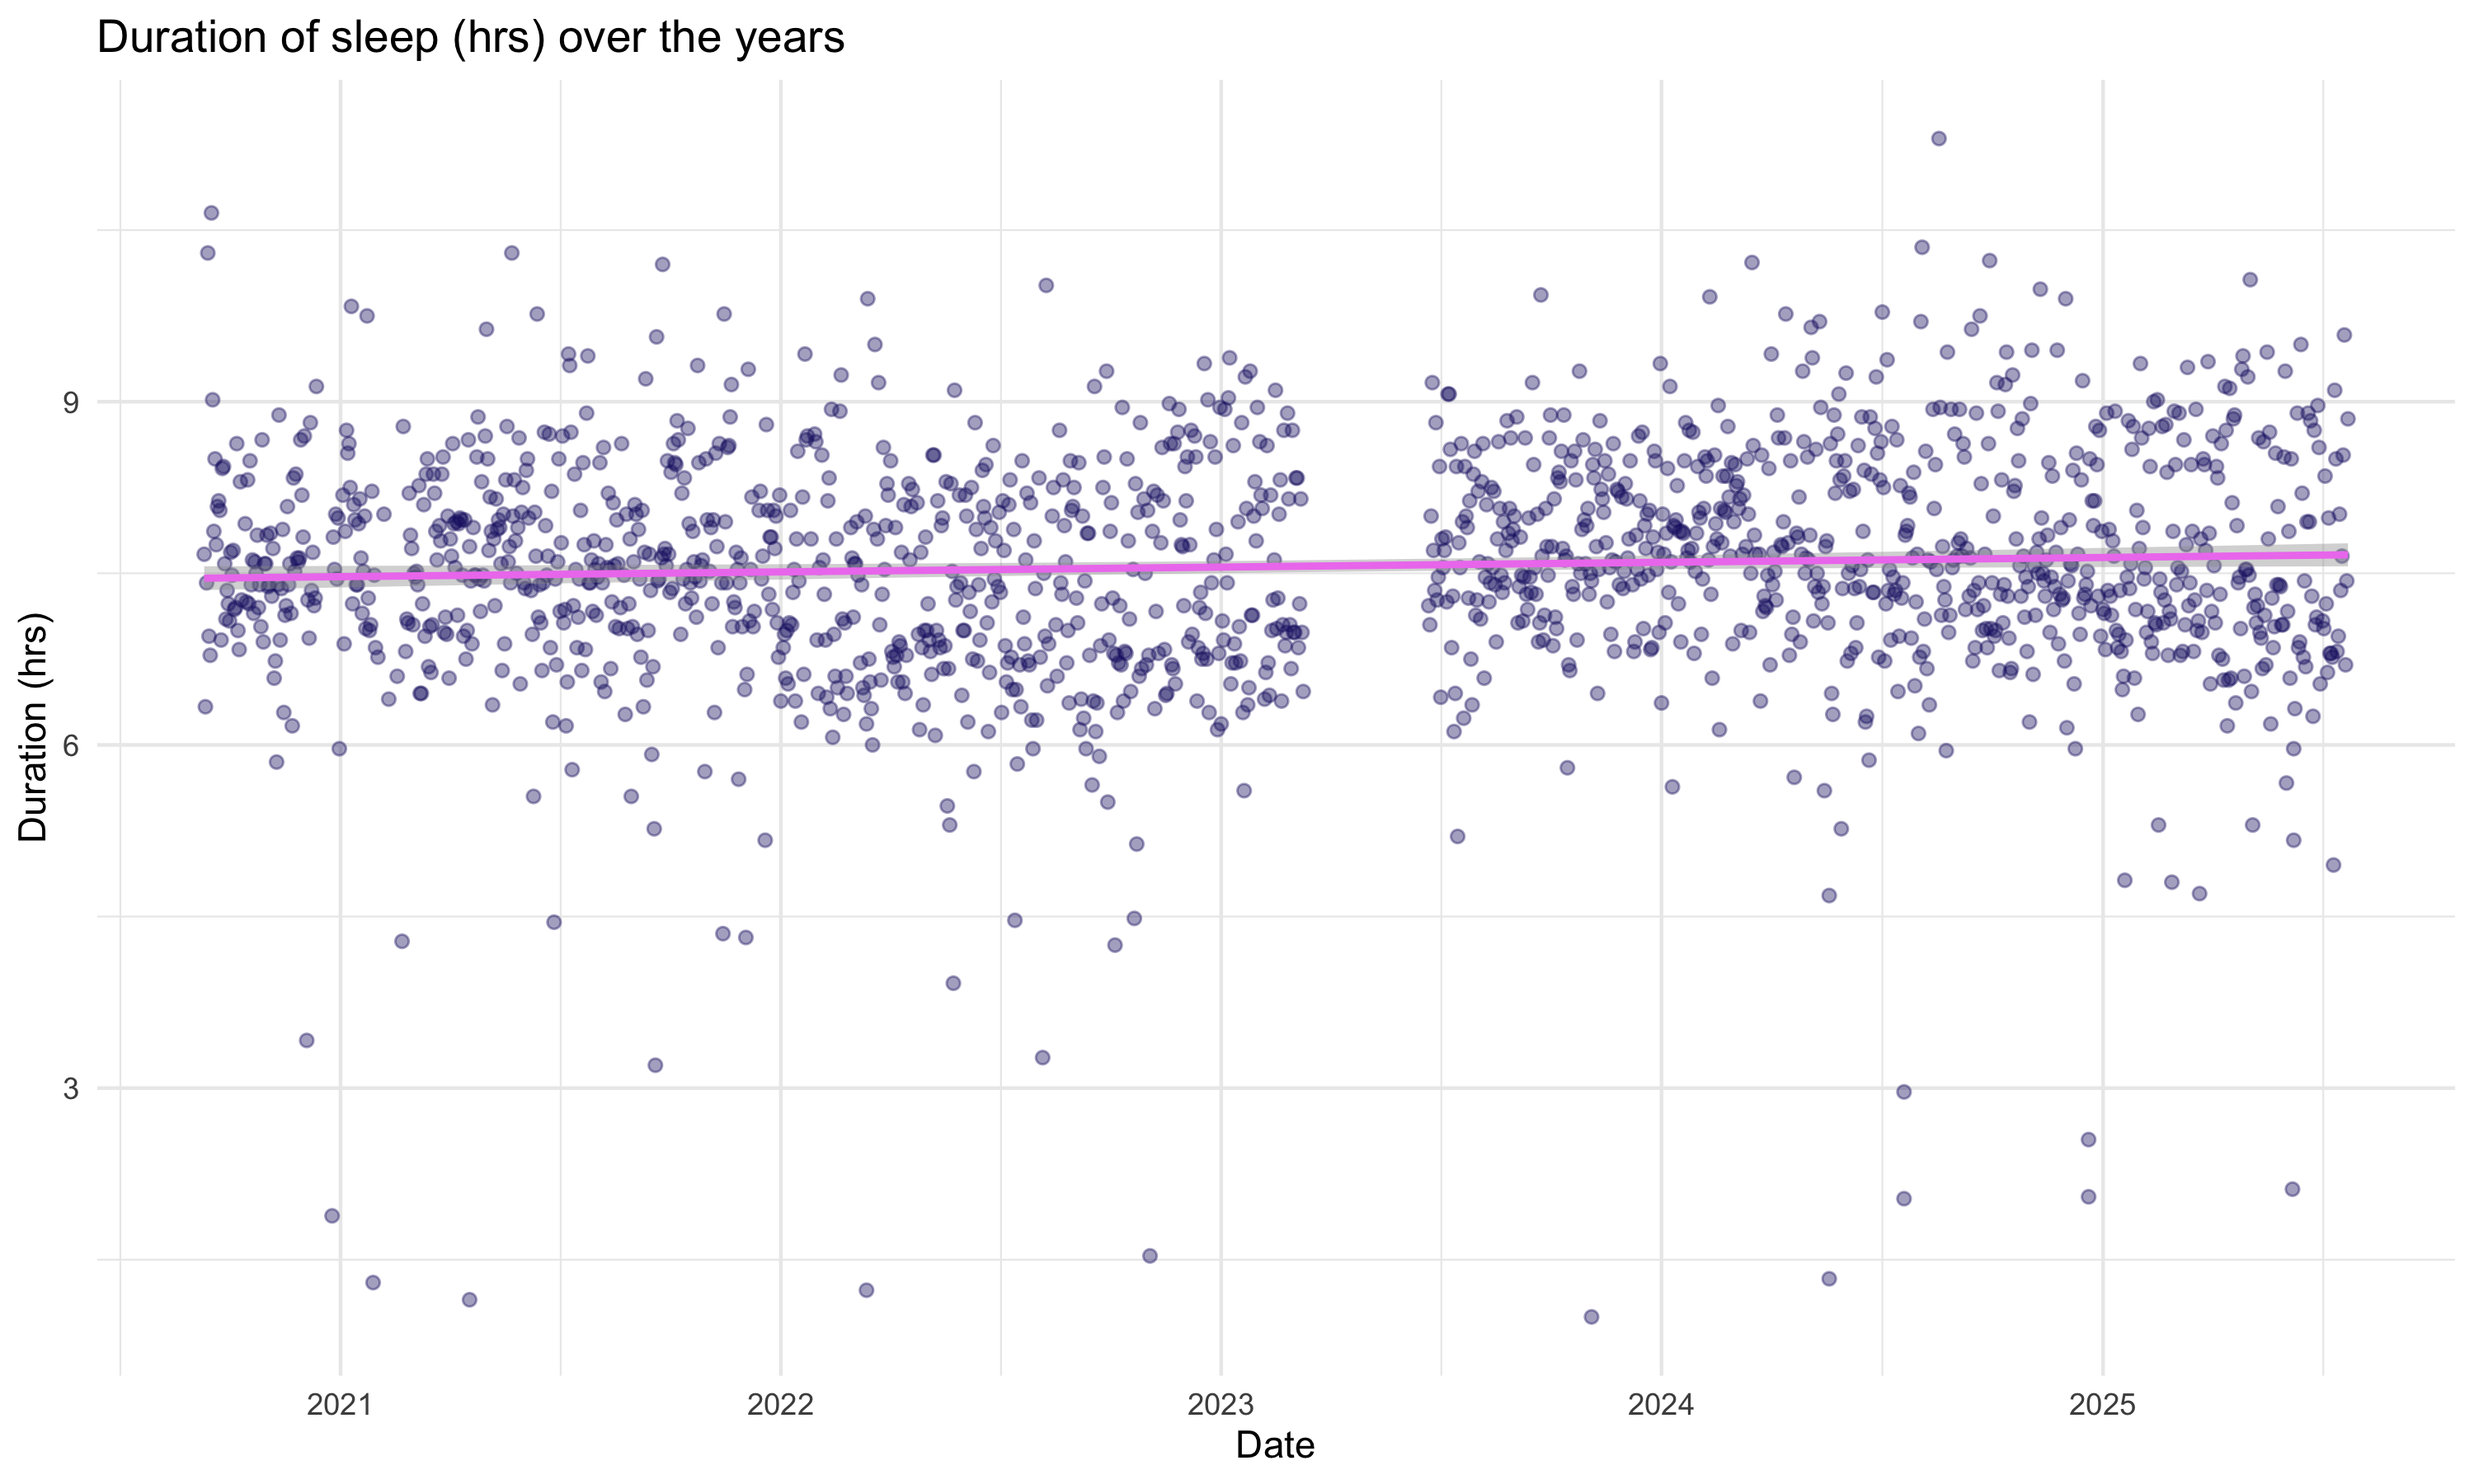
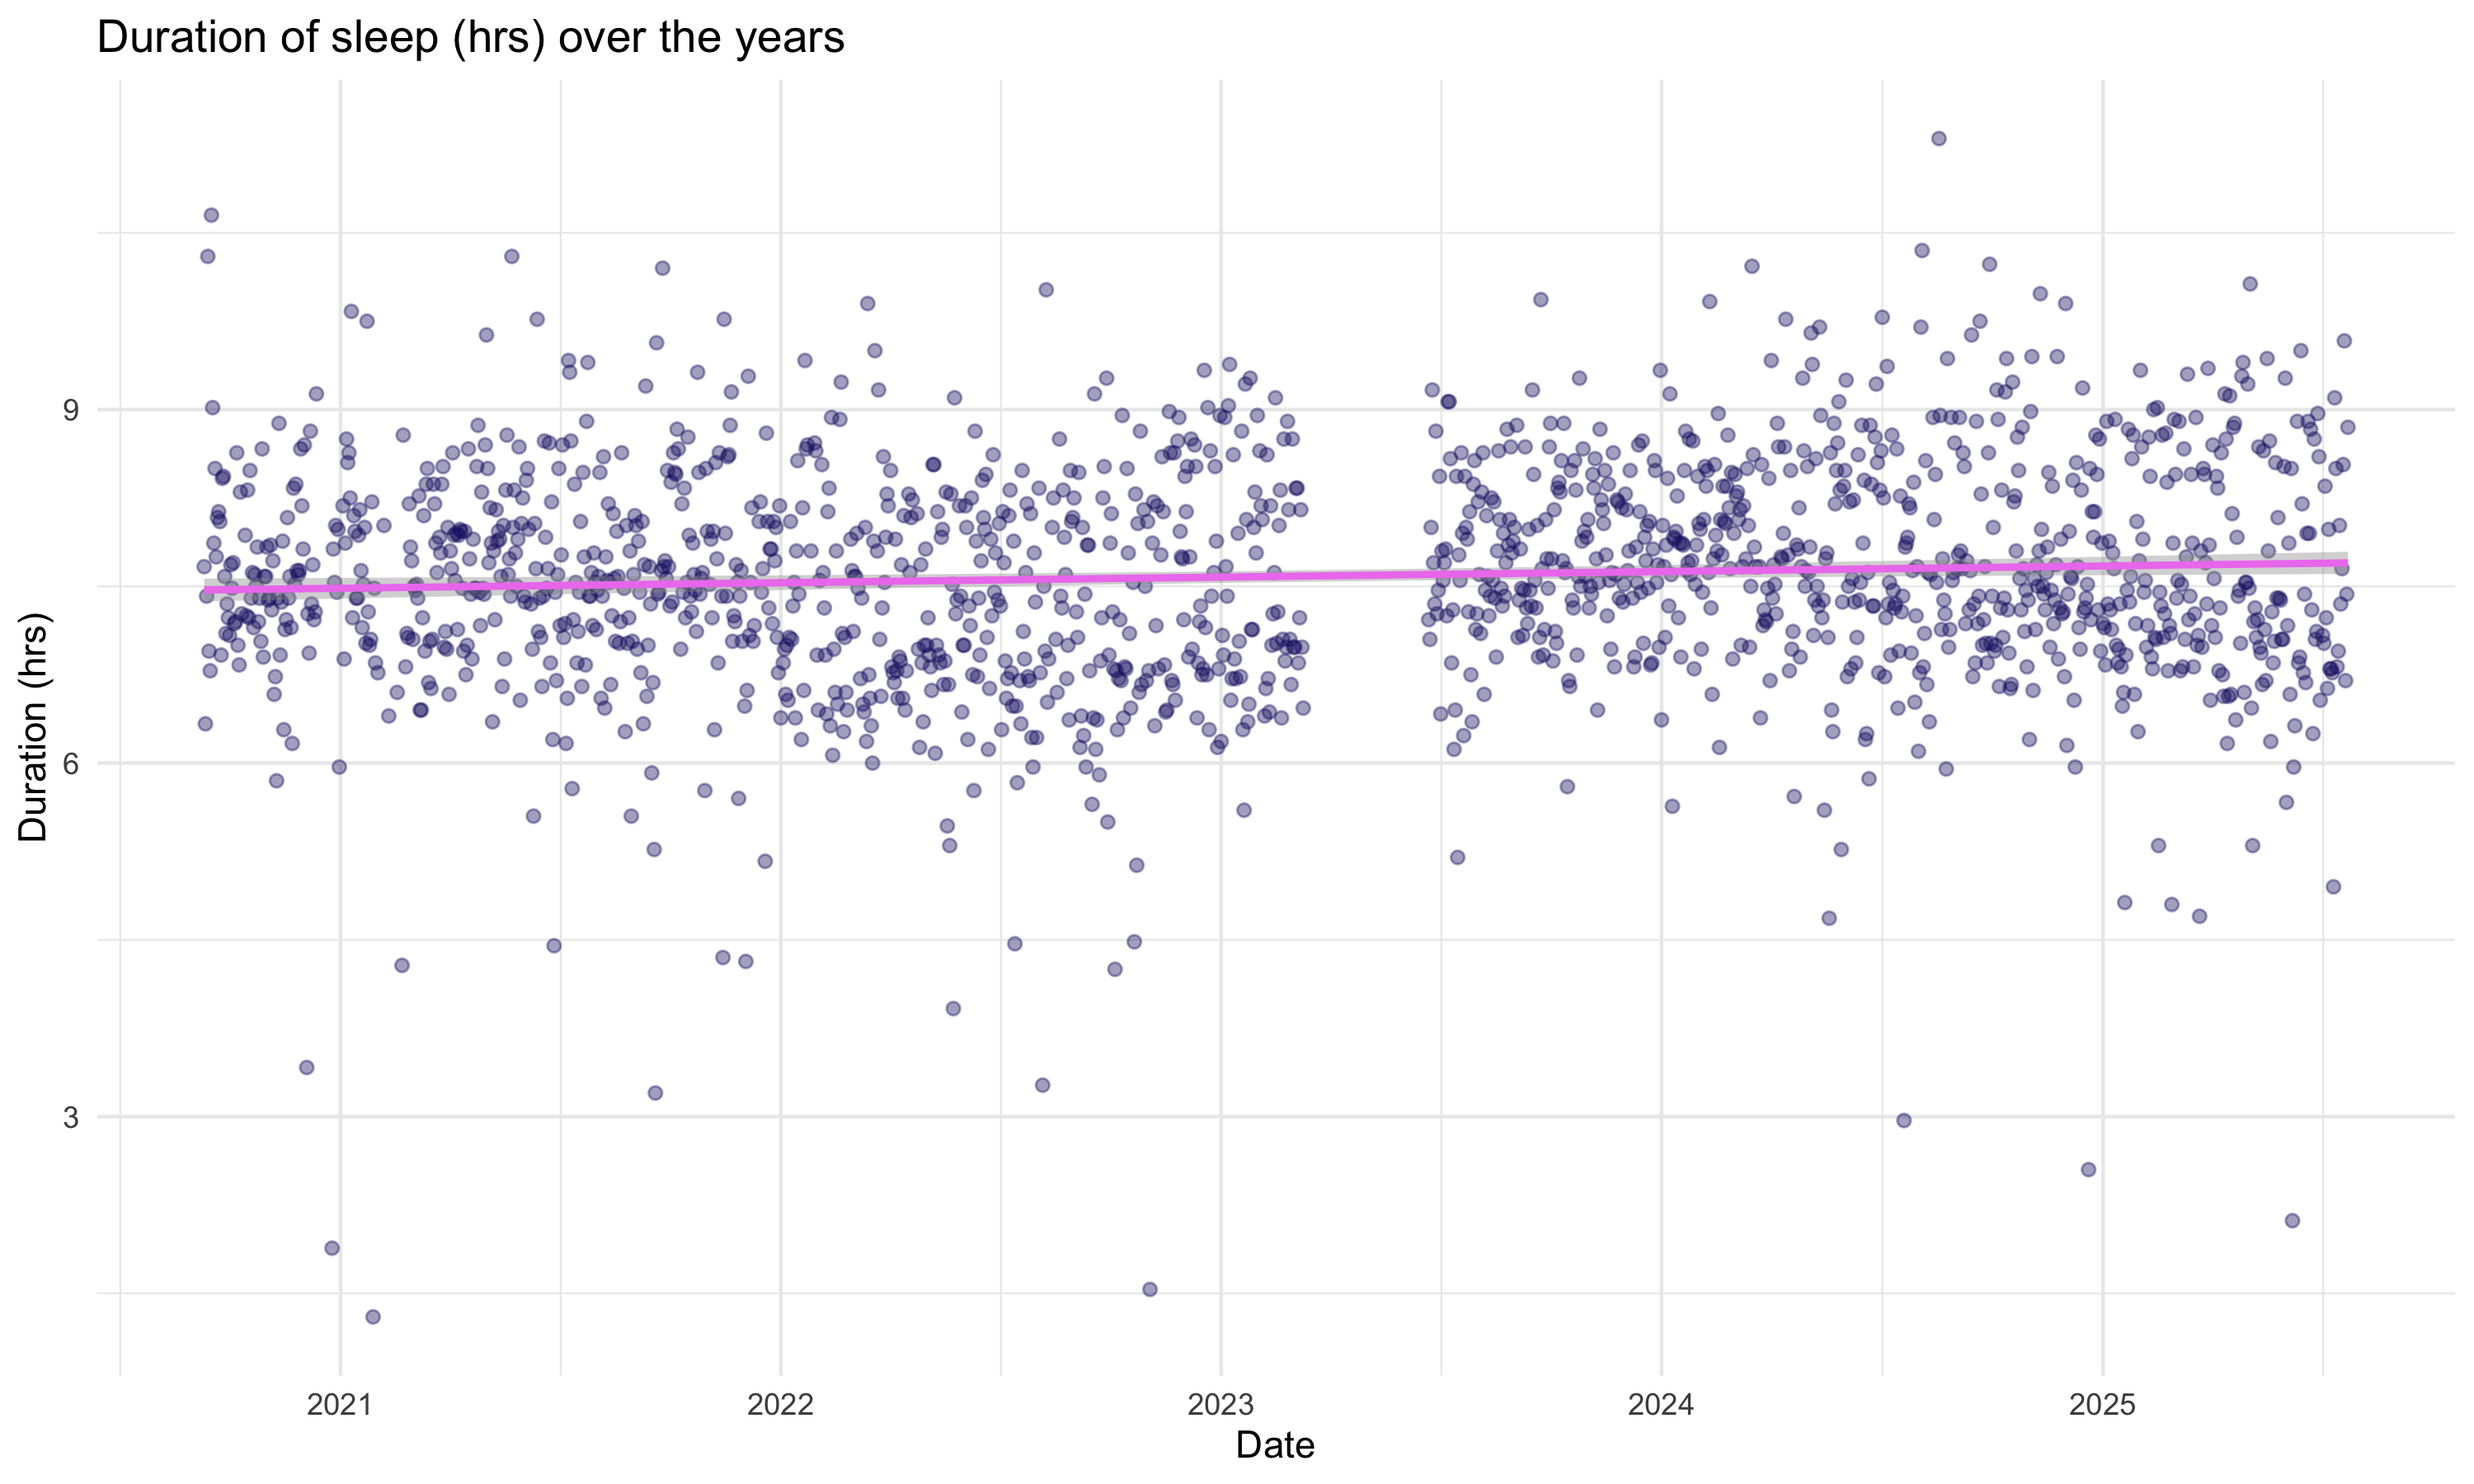
Incremental changes to sleep analysis - add calculations and confidence interval

diff --git a/04_reports/sleep_analysis.md b/04_reports/sleep_analysis.md
@@ -21,8 +21,6 @@ WK
   - [What is the “best” time to go to sleep? i.e. time of falling asleep
     vs duration of deep
     sleep.](#what-is-the-best-time-to-go-to-sleep-ie-time-of-falling-asleep-vs-duration-of-deep-sleep)
-  - [How does the sleep `score_score` compare to the
-    `sleep_summary$efficiency`?](#how-does-the-sleep-score_score-compare-to-the-sleep_summaryefficiency)
 - [Write to CSV](#write-to-csv)
 
 ### Data structure
@@ -63,7 +61,8 @@ main_sleep <- main_sleep |>
   mutate(duration_hr = duration / 1000 / 3600,
          timeInBed_hr = timeInBed / 60, 
          .after = duration) |> 
-  select(logId:logType) |> 
+  select(logId:logType, mainSleep) |> 
+  filter(mainSleep) |> 
   distinct(logId, .keep_all = TRUE)
 ```
 
@@ -103,8 +102,41 @@ improvement in the overall trend, i.e. increasing length of sleep, and
 around mid-2023 we can observe more consistency and concentration of the
 sleep duration around the line.
 
+Sleep duration increased by ~3 min per year (95% CI: 1-5 min), i.e. ~15
+min over the whole period. Date explains \<1% of the variability between
+nights, so the trend is real but small.
+
 Starting from 2025 the duration seems to be spread further from the
 line, concentrating more on the upper and lower extremes.
+
+``` r
+main_sleep |>
+  mutate(year = year(dateOfSleep)) |>
+  summarize(n = n(),
+            avg_hr = mean(duration_hr),
+            se = sd(duration_hr) / sqrt(n),
+            ci_low = avg_hr - 1.96 * se,
+            ci_high = avg_hr + 1.96 * se,
+            .by = year) |>
+  arrange(year)
+```
+
+<div class="kable-table">
+
+| year |   n |   avg_hr |        se |   ci_low |  ci_high |
+|-----:|----:|---------:|----------:|---------:|---------:|
+| 2020 |  98 | 7.529592 | 0.1055977 | 7.322620 | 7.736563 |
+| 2021 | 332 | 7.588554 | 0.0533099 | 7.484067 | 7.693042 |
+| 2022 | 327 | 7.322375 | 0.0569087 | 7.210834 | 7.433916 |
+| 2023 | 256 | 7.705729 | 0.0488203 | 7.610041 | 7.801417 |
+| 2024 | 356 | 7.778418 | 0.0520754 | 7.676350 | 7.880485 |
+| 2025 | 202 | 7.548020 | 0.0751704 | 7.400686 | 7.695354 |
+
+</div>
+
+Yearly averages show a dip in 2022 (7.3 h, 95% CI: 7.2-7.4) followed by
+recovery in 2023-2024, so the overall upward trend is driven largely by
+this dip.
 
 ------------------------------------------------------------------------
 
@@ -134,7 +166,7 @@ main_sleep |>
   theme_minimal()
 ```
 
-![](sleep_analysis_files/figure-gfm/unnamed-chunk-6-1.png)<!-- -->
+![](sleep_analysis_files/figure-gfm/unnamed-chunk-8-1.png)<!-- -->
 
 Majority of the observed average sleep time is **between 7.5 to 8hrs**.
 There is some improvement over the years, as in years **2020-2022**
@@ -161,12 +193,12 @@ main_sleep |>
 
 | year | avg_sleep_duration |
 |-----:|:-------------------|
-| 2024 | 07:44:00           |
-| 2023 | 07:41:00           |
-| 2021 | 07:34:00           |
+| 2024 | 07:47:00           |
+| 2023 | 07:42:00           |
+| 2021 | 07:35:00           |
+| 2025 | 07:33:00           |
 | 2020 | 07:32:00           |
-| 2025 | 07:32:00           |
-| 2022 | 07:18:00           |
+| 2022 | 07:19:00           |
 
 </div>
 
@@ -194,7 +226,7 @@ main_sleep |>
   scale_x_continuous(breaks = 1:7)
 ```
 
-![](sleep_analysis_files/figure-gfm/unnamed-chunk-8-1.png)<!-- -->
+![](sleep_analysis_files/figure-gfm/unnamed-chunk-10-1.png)<!-- -->
 
 General observations:
 
@@ -224,7 +256,7 @@ main_sleep |>
   theme_minimal()
 ```
 
-![](sleep_analysis_files/figure-gfm/unnamed-chunk-9-1.png)<!-- -->
+![](sleep_analysis_files/figure-gfm/unnamed-chunk-11-1.png)<!-- -->
 
 Unfortunately, the bar plot doesn’t paint the best picture in this
 context.
@@ -246,7 +278,7 @@ main_sleep |>
   stat_summary(color = "midnightblue") 
 ```
 
-![](sleep_analysis_files/figure-gfm/unnamed-chunk-10-1.png)<!-- -->
+![](sleep_analysis_files/figure-gfm/unnamed-chunk-12-1.png)<!-- -->
 Analyzing the summary statistics, we can note few observations:
 
 - **2020 is the only year** with a similar spread in length of sleep on
@@ -257,7 +289,7 @@ Analyzing the summary statistics, we can note few observations:
   end of the sleep’s length - ranging from 1hr to under 6 hrs,
   suggesting “sleepless nights”
 - 50% of the registered sleep tends to last between **6-7 hrs on
-  weekends** and **7.5-9 hrs on weekends**
+  weekdays** and **7.5-9 hrs on weekends**
 - 2025 shows **many higher-end outliers on weekdays**, where sleep
   lasted roughly 9 hrs - suggesting those could be Wednesdays (days off
   from the training). Additionally, there is more significant gap
@@ -275,13 +307,14 @@ main_sleep |>
 
 | weekday_type | avg_duration_hr | diff_m   |
 |:-------------|----------------:|:---------|
-| weekday      |        7.424229 | NA       |
-| weekend      |        7.901615 | 00:29:00 |
+| weekday      |        7.429015 | NA       |
+| weekend      |        7.980841 | 00:33:00 |
 
 </div>
 
-Throughout the years, on average sleep is longer by **~29 mins** during
-weekends.
+Throughout the years, on average sleep is **~33 mins** longer on
+weekends (95% CI: 26-40 min). Nights are not independent, so the
+interval is likely somewhat optimistic.
 
 ------------------------------------------------------------------------
 
@@ -620,13 +653,13 @@ main_sleep |>
   theme_minimal()
 ```
 
-![](sleep_analysis_files/figure-gfm/unnamed-chunk-21-1.png)<!-- -->
+![](sleep_analysis_files/figure-gfm/unnamed-chunk-24-1.png)<!-- -->
 
 ``` r
 main_sleep |> 
   select(logId:startTime) |> 
   mutate(startTime_hr = hour(startTime), .after = startTime) |> 
-  filter(startTime_hr %in% c(1,2)) |> 
+  filter(startTime_hr %in% c(0,1)) |> 
   group_by(day_of_the_week = weekday) |> 
   summarize(n_between_0_2 = n())
 ```
@@ -635,13 +668,13 @@ main_sleep |>
 
 | day_of_the_week | n_between_0_2 |
 |----------------:|--------------:|
-|               1 |            13 |
-|               2 |             2 |
-|               3 |            11 |
-|               4 |             8 |
-|               5 |            12 |
-|               6 |            72 |
-|               7 |            60 |
+|               1 |            41 |
+|               2 |            30 |
+|               3 |            62 |
+|               4 |            46 |
+|               5 |            50 |
+|               6 |           151 |
+|               7 |           135 |
 
 </div>
 
@@ -655,17 +688,15 @@ not a statistical error (the sample wasn’t too small) and potentially
 can be caused by the higher **sleep pressure** and exhaustion when
 falling asleep late in the night.
 
-However, majority of the nights when sleep started between midnight and
-2 am occurred during the weekend (consider above table - day 6 is Friday
-& day 7 is Saturday in this scenario), which should also correlate with
-the longer sleep that was observed during the weekends.
+However, more than half of the nights when sleep started between
+midnight and 2 am occurred during the weekend (consider above table -
+day 6 is Saturday & day 7 is Sunday in this scenario, as sleep started
+after midnight, i.e. after going to bed on Friday and Saturday night),
+which should also correlate with the longer sleep that was observed
+during the weekends.
 
 **This doesn’t contradict the previous analysis but adds another angle
 to this.**
-
-#### How does the sleep `score_score` compare to the `sleep_summary$efficiency`?
-
-Yet to be seen..
 
 ------------------------------------------------------------------------
 
